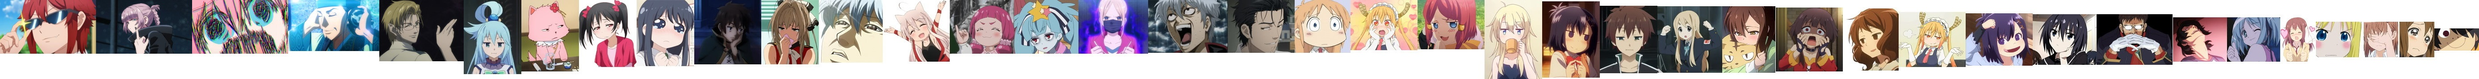
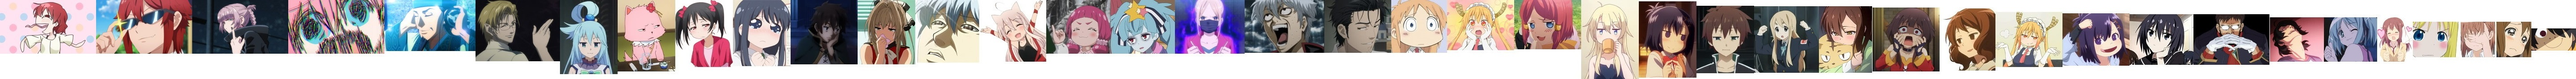
Feature/seasonal faces summer 2023 (#110)
* Adds HoF permanant face from spring23

* Adds Hall of Fame trololol

* Adds summer23 seasonal faes

* crorrects naming offset

* reduces hype compression bleed

diff --git a/src/_commentfaces-static.scss b/src/_commentfaces-static.scss
@@ -323,7 +323,7 @@ $static-comment-faces: (
 				"harukathink": ("height": 160, "width": 112, "position": 8139),
 				"kannathumbs": ("height": 162, "width": 150, "position": 8289),
 				"konosubawot4": ("height": 166, "width": 129, "position": 8418))),
-		33: ("sprite-sheet": "cf-static-046", "total-width": 5549, "items": ("araragi-1": ("height": 50, "width": 100, "position": 100),
+		33: ("sprite-sheet": "cf-static-046", "total-width": 5764, "items": ("araragi-1": ("height": 50, "width": 100, "position": 100),
 				"yui-crying": ("height": 80, "width": 78, "position": 178),
 				"facepalm": ("height": 80, "width": 80, "position": 258),
 				"gununu": ("height": 80, "width": 107, "position": 365),
@@ -358,29 +358,30 @@ $static-comment-faces: (
 				"sideeyes": ("height": 161, "width": 129, "position": 4382),
 				"konosubawot": ("height": 167, "width": 129, "position": 4511))),
 
-		34: ("sprite-sheet": "cf-static-046", "total-width": 5549, "items": (
+		34: ("sprite-sheet": "cf-static-046", "total-width": 5764, "items": (
 				"michaelwink": 			("height": 137, "width": 189, "position": 4700),
 				"listen": 				("height": 115, "width": 204, "position": 4904),
 				"bocchitheshock":     	("height": 121, "width": 215, "position": 5119),
 				"angryvampire": 		("height": 121, "width": 215, "position": 5334),
-				"tomboyshades":     	("height": 121, "width": 215, "position": 5549))),
+				"tomboyshades":     	("height": 121, "width": 215, "position": 5549),
+				"trololol":     		("height": 121, "width": 215, "position": 5764))),
 
-		35: ("sprite-sheet": "cf-static-039", "total-width": 3575, "items": (
+		35: ("sprite-sheet": "cf-static-039", "total-width": 3532, "items": (
 				"seasonalapproval": 	("height": 121, "width": 215, "position": 215),
 				"seasonalblush": 		("height": 121, "width": 215, "position": 430),
 				"seasonalconfused":     ("height": 121, "width": 215, "position": 645),
-				"seasonaldepression": 	("height": 121, "width": 215, "position": 860),
-				"seasonaldisapproval": 	("height": 121, "width": 215, "position": 1075),
-				"seasonaldisdain": 		("height": 121, "width": 215, "position": 1290),
-				"seasonalfoodie": 		("height": 121, "width": 215, "position": 1505),
-				"seasonalhype": 		("height": 121, "width": 215, "position": 1720),
-				"seasonallaugh": 		("height": 121, "width": 215, "position": 1935),
-				"seasonallisten": 		("height": 121, "width": 215, "position": 2150),
-				"seasonallove": 		("height": 121, "width": 215, "position": 2365),
-				"seasonalneat": 		("height": 121, "width": 215, "position": 2580),
-				"seasonalpout": 		("height": 121, "width": 215, "position": 2795),
-				"seasonalshock": 		("height": 121, "width": 215, "position": 3010),
-				"seasonalthink": 		("height": 121, "width": 215, "position": 3225),
-				"seasonaltired": 		("height": 121, "width": 215, "position": 3440),
-				"seasonalcool": 		("height": 135, "width": 135, "position": 3575)))
+				"seasonalcool": 		("height": 121, "width": 215, "position": 860),
+				"seasonaldepression": 	("height": 121, "width": 215, "position": 1075),
+				"seasonaldisapproval": 	("height": 121, "width": 215, "position": 1290),
+				"seasonaldisdain": 		("height": 121, "width": 215, "position": 1505),
+				"seasonalfoodie": 		("height": 121, "width": 215, "position": 1720),
+				"seasonalhype": 		("height": 121, "width": 215, "position": 1935),
+				"seasonallaugh": 		("height": 121, "width": 215, "position": 2150),
+				"seasonallisten": 		("height": 121, "width": 174, "position": 2324),
+				"seasonallove": 		("height": 121, "width": 215, "position": 2539),
+				"seasonalneat": 		("height": 121, "width": 215, "position": 2754),
+				"seasonalpout": 		("height": 121, "width": 215, "position": 2969),
+				"seasonalshock": 		("height": 121, "width": 215, "position": 3184),
+				"seasonaltired": 		("height": 121, "width": 215, "position": 3399),
+				"seasonalthink": 		("height": 150, "width": 133, "position": 3532)))
 );
